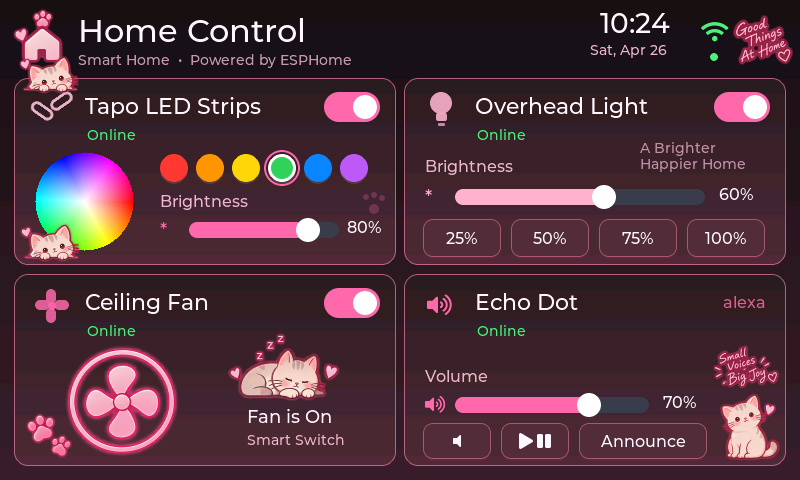
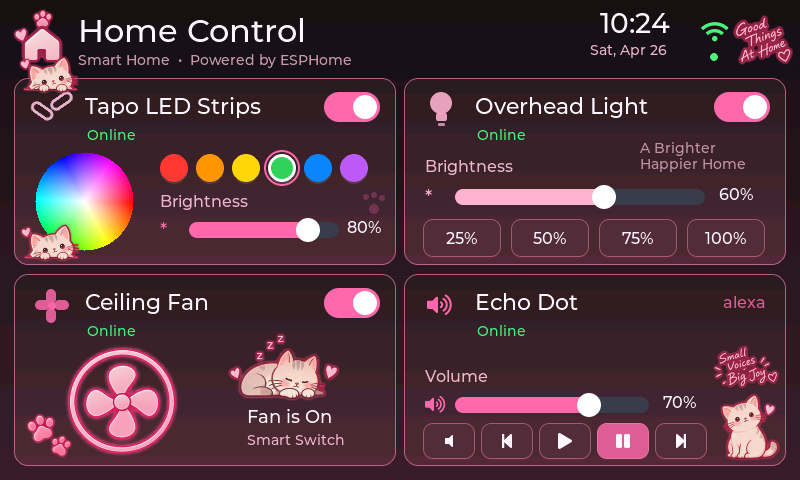
Replace display announcement with dedicated media transport controls
Add explicit Play/Pause and Previous/Next buttons across all themes, preserving Mute. Wire track events through MQTT discovery and the Home Assistant package. Verify repeat-click semantics and all four LVGL layouts; refresh display previews.

diff --git a/main/ui.c b/main/ui.c
@@ -63,12 +63,14 @@ static lv_obj_t *s_echo_pct;
 static lv_obj_t *s_echo_status;
 static lv_obj_t *s_echo_mute;
 static lv_obj_t *s_echo_play;
+static lv_obj_t *s_echo_pause;
+static lv_obj_t *s_echo_previous;
+static lv_obj_t *s_echo_next;
 static lv_obj_t *s_alexa_now_playing;
 static lv_obj_t *s_alexa_artist;
 
 static bool s_syncing;
 static bool s_fan_on;
-static bool s_echo_playing;
 static bool s_echo_muted;
 static uint8_t s_echo_unmuted_volume = 50;
 
@@ -725,28 +727,27 @@ static void echo_mute_cb(lv_event_t *e)
     mqtt_bridge_echo_mute(muted, target_volume);
 }
 
-static void echo_play_cb(lv_event_t *e)
+static void set_echo_playing(bool playing)
 {
-    (void)e;
+    if (s_echo_play) lv_obj_set_style_bg_color(
+        s_echo_play, c(playing ? T->accent : T->card_bg_2), 0);
+    if (s_echo_pause) lv_obj_set_style_bg_color(
+        s_echo_pause, c(playing ? T->card_bg_2 : T->accent), 0);
+}
+
+static void echo_playback_cb(lv_event_t *e)
+{
     discard_pending_ui(UI_PENDING_ALEXA);
-
-    bool playing = !s_echo_playing;
-    s_echo_playing = playing;
-    if (s_echo_play) {
-        lv_obj_set_style_bg_color(
-            s_echo_play, c(playing ? T->accent : T->card_bg_2), 0);
-    }
-
-    ESP_LOGI(TAG, "UI CMD alexa playing=%d", playing);
+    /* Explicit commands: repeated Play clicks must never pause playback. */
+    bool playing = (uintptr_t)lv_event_get_user_data(e) != 0;
+    set_echo_playing(playing);
     mqtt_bridge_echo_play_pause(playing);
 }
 
-static void echo_announce_cb(lv_event_t *e)
+static void echo_track_cb(lv_event_t *e)
 {
-    (void)e;
-    discard_pending_ui(UI_PENDING_ALEXA);
-    ESP_LOGI(TAG, "UI CMD alexa announce");
-    mqtt_bridge_echo_announce();
+    bool next = (uintptr_t)lv_event_get_user_data(e) != 0;
+    mqtt_bridge_echo_track(next);
 }
 
 static void make_status_dot(lv_obj_t *card, lv_obj_t **status, int x, int y)
@@ -960,15 +961,19 @@ static void create_echo_card(lv_obj_t *root)
     lv_obj_add_event_cb(s_echo_slider, echo_volume_cb, LV_EVENT_RELEASED, NULL);
     s_echo_pct = make_label(card, "--%", T->kittens ? 258 : 314, 118, &lv_font_montserrat_16, T->text);
 
-    s_echo_mute = make_button(card, LV_SYMBOL_MUTE, 18, 148, T->kittens ? 68 : 94, 36);
+    /* Leave room for the kitten at the right edge; all hit areas remain >=52px. */
+    const int width = T->kittens ? 52 : 66;
+    const int step = T->kittens ? 58 : 70;
+    s_echo_mute = make_button(card, LV_SYMBOL_MUTE, 18, 148, width, 36);
     lv_obj_add_event_cb(s_echo_mute, echo_mute_cb, LV_EVENT_CLICKED, NULL);
-
-    s_echo_play = make_button(card, LV_SYMBOL_PLAY " " LV_SYMBOL_PAUSE,
-                              T->kittens ? 96 : 126, 148, T->kittens ? 68 : 96, 36);
-    lv_obj_add_event_cb(s_echo_play, echo_play_cb, LV_EVENT_CLICKED, NULL);
-
-    lv_obj_t *announce = make_button(card, "Announce", T->kittens ? 174 : 236, 148, 128, 36);
-    lv_obj_add_event_cb(announce, echo_announce_cb, LV_EVENT_CLICKED, NULL);
+    s_echo_previous = make_button(card, LV_SYMBOL_PREV, 18 + step, 148, width, 36);
+    lv_obj_add_event_cb(s_echo_previous, echo_track_cb, LV_EVENT_CLICKED, NULL);
+    s_echo_play = make_button(card, LV_SYMBOL_PLAY, 18 + 2 * step, 148, width, 36);
+    lv_obj_add_event_cb(s_echo_play, echo_playback_cb, LV_EVENT_CLICKED, (void *)(uintptr_t)1);
+    s_echo_pause = make_button(card, LV_SYMBOL_PAUSE, 18 + 3 * step, 148, width, 36);
+    lv_obj_add_event_cb(s_echo_pause, echo_playback_cb, LV_EVENT_CLICKED, NULL);
+    s_echo_next = make_button(card, LV_SYMBOL_NEXT, 18 + 4 * step, 148, width, 36);
+    lv_obj_add_event_cb(s_echo_next, echo_track_cb, LV_EVENT_CLICKED, (void *)(uintptr_t)1);
 }
 
 static void create_header(lv_obj_t *root)
@@ -1105,7 +1110,6 @@ static void pending_state_timer_cb(lv_timer_t *timer)
         s_echo_slider && s_echo_pct && s_echo_mute) {
         s_syncing = true;
         s_echo_muted = pending.alexa_muted;
-        s_echo_playing = pending.alexa_playing;
         if (pending.alexa_volume > 0) {
             s_echo_unmuted_volume = pending.alexa_volume;
         }
@@ -1116,12 +1120,7 @@ static void pending_state_timer_cb(lv_timer_t *timer)
             s_echo_mute,
             c(pending.alexa_muted ? T->accent : T->card_bg_2),
             0);
-        if (s_echo_play) {
-            lv_obj_set_style_bg_color(
-                s_echo_play,
-                c(pending.alexa_playing ? T->accent : T->card_bg_2),
-                0);
-        }
+        set_echo_playing(pending.alexa_playing);
 
         if (s_alexa_now_playing) {
             lv_label_set_text(

diff --git a/tests/host/render.c b/tests/host/render.c
@@ -6,6 +6,7 @@
 static panel_settings_t config;
 static uint16_t framebuffer[800 * 480];
 static int tapo_commands, fan_commands, echo_commands;
+static bool last_playing, last_next;
 const panel_settings_t *settings_get(void) { return &config; }
 void mqtt_bridge_tapo_power(bool on) {(void)on;tapo_commands++;}
 void mqtt_bridge_tapo_brightness(uint8_t p) {(void)p;tapo_commands++;}
@@ -15,7 +16,8 @@ void mqtt_bridge_overhead_brightness(uint8_t p) {(void)p;}
 void mqtt_bridge_fan_power(bool on) {(void)on;fan_commands++;}
 void mqtt_bridge_echo_volume(uint8_t p) {(void)p;echo_commands++;}
 void mqtt_bridge_echo_mute(bool m,uint8_t p) {(void)m;(void)p;echo_commands++;}
-void mqtt_bridge_echo_play_pause(bool p) {(void)p;echo_commands++;}
+void mqtt_bridge_echo_play_pause(bool p) {last_playing=p;echo_commands++;}
+void mqtt_bridge_echo_track(bool next) {last_next=next;echo_commands++;}
 void mqtt_bridge_echo_announce(void) {echo_commands++;}
 
 static void flush(lv_display_t *d,const lv_area_t *area,uint8_t *pixels) {
@@ -62,7 +64,13 @@ int main(int argc,char **argv) {
     lv_obj_send_event(s_color_presets[3],LV_EVENT_CLICKED,NULL);
     lv_obj_send_event(s_fan_switch,LV_EVENT_VALUE_CHANGED,NULL);
     lv_obj_send_event(s_echo_play,LV_EVENT_CLICKED,NULL);
-    assert(tapo_commands==1 && fan_commands==1 && echo_commands==1);
+    assert(tapo_commands==1 && fan_commands==1 && echo_commands==1 && last_playing);
+    lv_obj_send_event(s_echo_play,LV_EVENT_CLICKED,NULL);assert(last_playing);
+    lv_obj_send_event(s_echo_pause,LV_EVENT_CLICKED,NULL);assert(!last_playing);
+    lv_obj_send_event(s_echo_pause,LV_EVENT_CLICKED,NULL);assert(!last_playing);
+    lv_obj_send_event(s_echo_previous,LV_EVENT_CLICKED,NULL);assert(!last_next);
+    lv_obj_send_event(s_echo_next,LV_EVENT_CLICKED,NULL);assert(last_next);
+    assert(echo_commands==6);
     ui_set_mqtt_online(false);pending_state_timer_cb(NULL);
     assert(strcmp(lv_label_get_text(s_echo_status),"Offline")==0);
     ui_set_mqtt_online(true);ui_apply_tapo_state(true,80,0,255,0);

diff --git a/main/mqtt_bridge.c b/main/mqtt_bridge.c
@@ -429,7 +429,7 @@ static void publish_home_assistant_discovery(void)
         const char *name;
         const char *suffix;
         const char *state_topic;
-        const char *types[4];
+        const char *types[6];
         size_t type_count;
     };
 
@@ -463,8 +463,8 @@ static void publish_home_assistant_discovery(void)
             .name = "Echo Control",
             .suffix = "echo",
             .state_topic = s_topic_cmd_echo,
-            .types = {"volume", "mute", "play_pause", "announce"},
-            .type_count = 4,
+            .types = {"volume", "mute", "play_pause", "previous_track", "next_track", "announce"},
+            .type_count = 6,
         },
     };
 
@@ -898,6 +898,18 @@ void mqtt_bridge_echo_play_pause(bool playing)
             : "{\"event_type\":\"play_pause\",\"playing\":false}");
 }
 
+void mqtt_bridge_echo_track(bool next)
+{
+    note_local_command(CONTROL_ALEXA);
+    const panel_settings_t *settings = settings_get();
+    publish_targeted_json(
+        s_topic_cmd_echo,
+        settings ? settings->ha_echo_entity : NULL,
+        NULL,
+        next ? "{\"event_type\":\"next_track\"}"
+             : "{\"event_type\":\"previous_track\"}");
+}
+
 void mqtt_bridge_echo_announce(void)
 {
     note_local_command(CONTROL_ALEXA);
@@ -913,3 +925,4 @@ void mqtt_bridge_echo_announce(void)
                           settings ? settings->ha_echo_announce_script : NULL,
                           "{\"event_type\":\"announce\",\"action\":\"announce\"}");
 }
+

diff --git a/main/mqtt_bridge.h b/main/mqtt_bridge.h
@@ -23,8 +23,10 @@ void mqtt_bridge_fan_power(bool on);
 void mqtt_bridge_echo_volume(uint8_t percent);
 void mqtt_bridge_echo_mute(bool muted, uint8_t target_volume);
 void mqtt_bridge_echo_play_pause(bool playing);
+void mqtt_bridge_echo_track(bool next);
 void mqtt_bridge_echo_announce(void);
 
 #ifdef __cplusplus
 }
 #endif
+

diff --git a/home-assistant/README.md b/home-assistant/README.md
@@ -173,7 +173,7 @@ Under **Home Assistant targets**, choose the entities for that particular panel.
 | Overhead light | `light.*` |
 | Ceiling fan | `fan.*` or `switch.*` |
 | Echo | `media_player.*` |
-| Echo announcement | `script.*` when using the Announce button |
+| Echo announcement | `script.*` for legacy announcement events |
 
 Examples for an office panel:
 
@@ -188,7 +188,14 @@ script.office_echo_announce
 A kitchen panel can use an entirely different set of entity IDs while sharing
 the same broker, credentials, base topic, and Home Assistant bridge.
 
-The announcement button invokes the configured script. This is intentionally a
+The display provides Mute, Previous, Play, Pause and Next buttons. Play and Pause
+send explicit commands; Previous and Next call the media player track services.
+Track navigation depends on support from the selected media player and source.
+After updating firmware, replace/reload this Home Assistant package to enable
+the new track commands.
+
+The Announce button has been removed from the display. Legacy announcement
+events still invoke the configured script. This is intentionally a
 script target because announcement/TTS support differs between media-player
 integrations. Put whatever TTS or Alexa-specific action you need in that Home
 Assistant script.
@@ -255,3 +262,4 @@ connection.
 
 Keeping entity selection as entity-ID fields means each panel only needs its
 MQTT credentials and never needs a Home Assistant long-lived access token.
+

diff --git a/docs/display-artwork.md b/docs/display-artwork.md
@@ -8,6 +8,9 @@ sliders, buttons, titles, clock and state values. It is not a flattened mockup.
 - Magic: castle, lantern, owl, windows, wand, wave, gold corners and fan crest.
 - Classic: supplied blue home tile and fan badge.
 
+Echo controls are Mute, Previous, Play, Pause and Next. Update the Home Assistant
+MQTT package alongside firmware to enable track navigation.
+
 Each sprite is fitted without stretching. Decoration stays inside its parent
 bounds and cannot intercept touch events. The color wheel has an ARGB canvas,
 so its corners blend with the theme. Status starts at Waiting, changes to Online
@@ -49,7 +52,7 @@ done
 
 The harness checks image descriptors, bounds, non-clickable decorations,
 MQTT state application/disconnection, color preset commands, fan switching and
-Echo playback. It renders the same RGB565 target/ARGB8888 source combination as
+separate Echo Play/Pause commands and Previous/Next navigation. It renders the same RGB565 target/ARGB8888 source combination as
 the device. GitHub Actions runs these checks and uploads all four PPM renders.
 Desktop verification does not validate the ESP-IDF toolchain, LCD timing,
 physical touch calibration or behavior on the Waveshare hardware.
